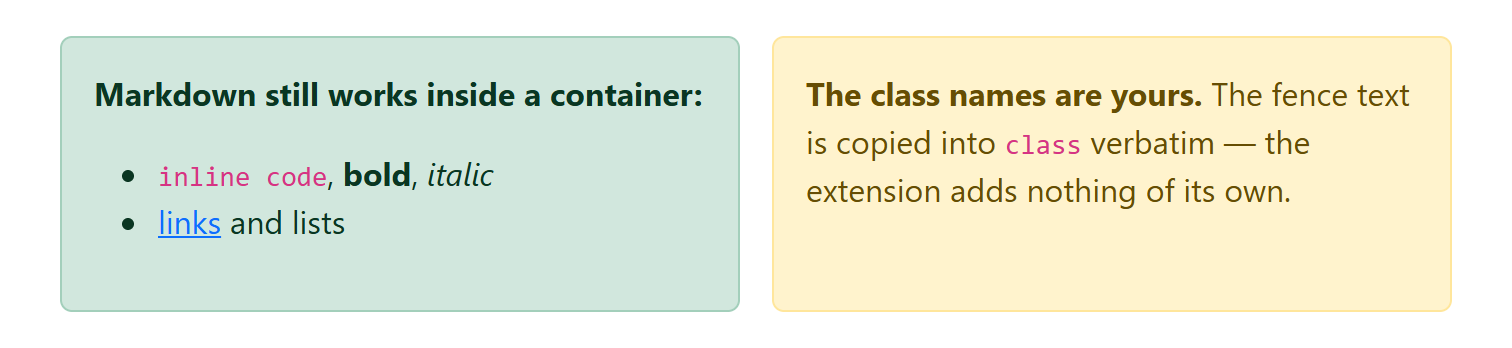
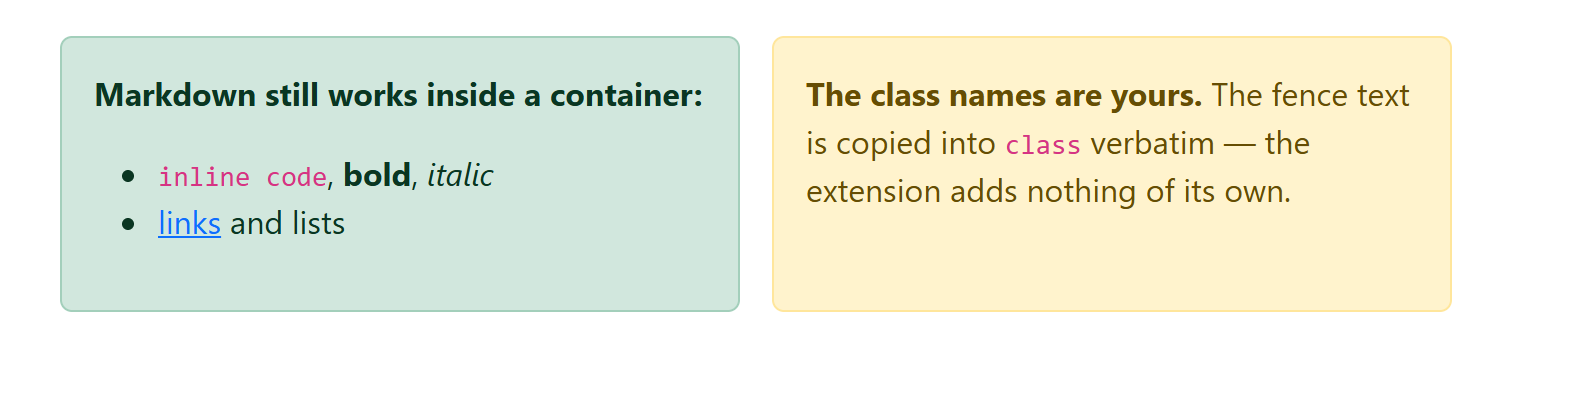
docs: generate every screenshot from the README, drop the 2022 GIFs
Each image in images/ dated from 2022 and had drifted from what the
extension renders. Rather than redraw them, scripts/screenshots.mjs
(npm run screenshots) renders each one from a fenced ```markdown block
in README.md itself, through the extension's own compiled plugins and
stylesheets in renderPage's order. Edit the code block and the picture
follows, so the two cannot disagree again.

The generator mirrors the plugin registration order of plugins.ts:
markdown-it tries inline rules in registration order and several of
these compete for the same delimiters.

New capability shots: sidenotes, marginal notes and both sidebars in the
margin layout - the headline feature, which had no image at all - plus a
combined inline-syntax shot and a footnote shot. admonition-demo1/2 and
container-demo are regenerated.

The three GIFs and command-demo.png are removed. They need a real VS
Code window to capture, and had aged badly: the palette shot listed
seven commands against today's twenty-seven while duplicating the
keyboard-shortcut table that already exists. Table editing, Paste as
Table and Export & Copy are documented with before/after Markdown and
command tables instead - produced by running the extension's own table
parser, stringifier and CSV converter, so the output is real. The
walkthrough's editing step moves to media/walkthrough/editing.md like
its five siblings, and command-demo2.png was referenced by nothing.
[…]

diff --git a/README.md b/README.md
@@ -249,27 +249,96 @@ Default Keyboard Shortcut bindings are removed due to conflict issues on platfor
 
 ### Table Editing
 
-![tableEdit](./images/tableEdit.gif)
+**Format Table** rewrites a table so the pipes line up, padding every cell to the
+width of its column and preserving each column's alignment marker:
 
-![moveCols](./images/moveCols.gif)
+```markdown
+| Command | Shortcut | Notes |
+|---|:--:|--:|
+| Format Table | Ctrl+Shift+T | tidies alignment |
+| Move Columns | Ctrl+Shift+Left | keeps the header |
+```
 
-> Move columns key bindings has been changed to `ctrl+shift+t ctrl+shift+left/right`, due to [#57](https://github.com/JackDMF/vscode-markdown-extended/issues/57), [#68](https://github.com/JackDMF/vscode-markdown-extended/issues/68)
+becomes
+
+```markdown
+| Command      |    Shortcut     |            Notes |
+| ------------ | :-------------: | ---------------: |
+| Format Table |  Ctrl+Shift+T   | tidies alignment |
+| Move Columns | Ctrl+Shift+Left | keeps the header |
+```
+
+The remaining table commands act on the table under the cursor, and reformat it
+afterwards so it stays aligned:
+
+| Command                     | Effect                                              |
+| --------------------------- | --------------------------------------------------- |
+| Add Columns to Left / Right | Inserts a column beside the one holding the cursor  |
+| Add Rows Above / Below      | Inserts a row next to the current one               |
+| Move Columns Left / Right   | Swaps a whole column, header and alignment included |
+| Delete Rows / Delete Columns | Removes the current row or column                  |
+
+Every one is on the command palette. No keyboard shortcuts are bound by default -
+see [Editing Helpers and Keys](#editing-helpers-and-keys) for why, and for the
+bindings to copy if you want them back.
+
+> For `Move Rows Up / Down`, use VS Code's built-in `Move Line Up / Down`
+> (`alt+up` / `alt+down`).
 
 ### Paste as Markdown Table
 
-Copy a table from Excel, Web and other applications which support the format of Comma-Separated Values (CSV), then run the command `Paste as Markdown Table`, you will get the markdown table.
+Copy a table from Excel, a web page, or anything else that puts Comma-Separated
+Values on the clipboard, then run **Paste as Table**. This clipboard content:
 
-![pasteTable](./images/pasteTable.gif)
+```text
+Command,Shortcut,Notes
+Format Table,Ctrl+Shift+T,tidies alignment
+Move Columns,Ctrl+Shift+Left,keeps the header
+```
+
+is inserted as:
+
+```markdown
+| Command      | Shortcut        | Notes            |
+| ------------ | --------------- | ---------------- |
+| Format Table | Ctrl+Shift+T    | tidies alignment |
+| Move Columns | Ctrl+Shift+Left | keeps the header |
+```
+
+The first row becomes the header, and the table is aligned on insert.
 
 ### Export & Copy
 
-![command](./images/command-demo.png)
+| Command                            | What it does                                                     |
+| ---------------------------------- | ---------------------------------------------------------------- |
+| Export to File                     | Exports the current document to HTML, PDF, PNG or JPG            |
+| Export Markdown to File            | Exports every Markdown file in the workspace                     |
+| Copy HTML                          | Puts the rendered HTML on the clipboard                          |
+| Copy HTML & Styles                 | The same, with the stylesheets inlined so it survives pasting    |
+| Install Chromium Browser for Export | Downloads the Chromium that PDF and image export need            |
+
+Search "Markdown" in the command palette (`Ctrl+Shift+P`) to reach them; export is
+also on the editor title menu and the explorer context menu.
 
 ## Syntax Documentation
 
 ### Sidenotes and Annotations
 
 This extension provides powerful annotation features with full markdown support:
+
+```markdown
+Sidenotes sit in the margin instead of breaking the line.++[1]|Notes carry
+**full markdown**: links, `code` and emphasis.++ On a narrow page they fall
+back to a readable block, so nothing is pushed off the edge.
+
+Marginal notes behave the same way but render bold.!![*]|Good for short asides.!!
+
+$A left sidebar, for context that runs alongside the text.$
+
+@A right sidebar, with `code` and [links](https://example.com).@
+```
+
+![sidenote-demo](./images/sidenote-demo.png)
 
 #### Sidenotes
 
@@ -350,6 +419,27 @@ ends up with a horizontal scrollbar. If you widen `--md-note-width`, raise the
 For advanced features (CSS counters, color cycling, `:has()` selectors), build on
 these classes and properties — see `styles/markdown-extended.css`.
 
+### Extended Inline Syntax
+
+Everything the extension adds to a line of text, in one place. Each mark has its
+own section further down; this is what they look like together.
+
+```markdown
+*[HTML]: HyperText Markup Language
+
+Highlight with ==mark==, strike through ~~del~~, mix *italic* and **bold**.
+Water is H~2~O and the answer is 2^10^ = 1024. Press [[Ctrl+S]] to save.
+An HTML abbreviation shows its meaning on hover, and emoji work too :rocket:
+
+- [x] checkbox lists render as real checkboxes
+- [ ] unchecked items too
+
+Term
+:   A definition list entry, for glossaries and option tables.
+```
+
+![inline-syntax-demo](./images/inline-syntax-demo.png)
+
 ### Admonition
 
 > Inspired by [MkDocs](https://squidfunk.github.io/mkdocs-material/extensions/admonition/)
@@ -397,9 +487,11 @@ Here is a footnote reference,[^1] and another.[^longnote]
 
 [^1]: Here is the footnote.
 [^longnote]: Here's one with multiple blocks.
+
+    Indented paragraphs belong to the same footnote.
 ```
 
-Example output: Here is a footnote reference with superscript links.
+![footnote-demo](./images/footnote-demo.png)
 
 ### markdown-it-abbr
 

diff --git a/CHANGELOG.md b/CHANGELOG.md
@@ -17,9 +17,14 @@
 
 ### 📖 Documentation
 
+- **Every documentation image is now generated, not drawn.** `scripts/screenshots.mjs` (`npm run screenshots`) renders each one from a fenced ```markdown block in README.md itself, through the extension's own compiled plugins and stylesheets in the order `renderPage` emits them. The README and its illustrations can no longer disagree. The generator mirrors the plugin registration order of `src/plugin/plugins.ts`, because markdown-it tries inline rules in registration order.
+- **New capability screenshots.** Sidenotes, marginal notes and both sidebars in the margin layout - the extension's headline feature, which had no image at all - plus a combined "Extended Inline Syntax" shot (mark, strikethrough, sub/sup, kbd, abbreviation, emoji, task lists, definition lists) and a footnote shot. `admonition-demo1/2` and `container-demo` are regenerated from current rendering.
+- **The three GIFs and the command-palette screenshot are gone.** All dated from 2022 and could not be regenerated without driving a real VS Code window. Table editing, Paste as Table and Export & Copy are now documented with before/after Markdown and command tables - copyable, searchable, and correct by construction: the before/after output was produced by running the extension's own table parser, stringifier and CSV converter. The command-palette shot listed seven commands against today's twenty-seven, and duplicated the keyboard-shortcut table that already existed.
+- The walkthrough's editing step moves from `pasteTable.gif` to `media/walkthrough/editing.md`, matching its five siblings, and its cheat-sheet now lists the extension's own `[[Ctrl+S]]` keyboard syntax instead of raw `<kbd>` HTML.
+- Corrected two errors in the new prose: `++ins++` was written up as underline syntax, but `++...++` belongs to sidenotes alone and `markdown-it-ib` provides `_underline_`; and the footnote example promised "multiple blocks" while showing one line.
 - README documents the note layout model, the breakpoint and every custom property.
 - **The `markdown-it-container` example could not produce its own screenshot.** It used Bootstrap 3 grid classes (`col-xs-6`) while linking Bootstrap 4.0.0, which dropped that name — so the two panels rendered full-width instead of side by side. The section is rewritten around a working Bootstrap 5 example that also demonstrates what the plugin is actually for: the fence's info string becomes the `class` attribute verbatim, markdown still renders inside, and putting the grid class and the panel class on separate nested fences is what gives the panels a gutter (a single `col-md-6 alert alert-success` makes them touch, which is what the old screenshot showed). A Bulma version and the nesting rule are documented alongside it, as is the fact that a script-only CDN such as Tailwind's cannot be used, since `markdown.styles` takes CSS.
-- **`images/container-demo.png` regenerated** (535×58 from 2022 → 1512×316 @2x). It is rendered from the README's own code block through the real container render rule and the linked Bootstrap 5 stylesheet, so the picture and the documented source cannot drift apart.
+- **`images/container-demo.png` regenerated** (535×58 from 2022 → 1512×348 @2x). It is rendered from the README's own code block through the real container render rule and the linked Bootstrap 5 stylesheet, so the picture and the documented source cannot drift apart.
 - The Getting Started walkthrough said `markdown.styles` is "embedded into every export". That holds for a local file, but a URL is emitted as a `<link rel="stylesheet">`, so such an export needs the network at export time and stays tied to that URL. Both the walkthrough and the README now say so, along with the fact that setting `markdown.styles` at all switches off `markdownExtended.export.defaultStyles`.
 
 ## v3.1.1 — Multiline Bold & Italic

diff --git a/media/walkthrough/editing.md b/media/walkthrough/editing.md
@@ -1,0 +1,31 @@
+## Tables and formatting
+
+**Paste as Table** — copy rows from Excel, Google Sheets or any web table, then
+run it. Comma-separated clipboard text goes in:
+
+```
+Command,Shortcut,Notes
+Format Table,Ctrl+Shift+T,tidies alignment
+```
+
+and an aligned Markdown table comes out, first row as the header:
+
+```
+| Command      | Shortcut     | Notes            |
+| ------------ | ------------ | ---------------- |
+| Format Table | Ctrl+Shift+T | tidies alignment |
+```
+
+**Format Table** re-aligns the table under the cursor, padding each cell to its
+column width and keeping every alignment marker (`:--`, `:--:`, `--:`).
+
+**Add / Delete / Move Columns and Rows** act on the table under the cursor and
+re-align it afterwards, so it never drifts out of shape.
+
+**Toggle formatting** — bold, italics, underline, mark, strikethrough, inline
+code, code block, block quote, superscript, subscript, and ordered or unordered
+lists, all from the command palette.
+
+No keyboard shortcuts are bound by default: the old defaults clashed with other
+extensions on some platforms. Search "Markdown" in the command palette, use the
+bundled snippets, or bind your own in **Preferences: Open Keyboard Shortcuts**.

diff --git a/media/walkthrough/syntax.md b/media/walkthrough/syntax.md
@@ -5,7 +5,7 @@
 | `==highlight==` | highlighted / marked text |
 | `_underline_` | underlined text |
 | `H~2~O` · `x^2^` | subscript / superscript |
-| `<kbd>Ctrl</kbd>` | a keyboard key |
+| `[[Ctrl+S]]` | a keyboard key |
 | `[[toc]]` | a table of contents |
 | `[^1]` … `[^1]: note` | a footnote |
 | `*[HTML]: HyperText…` | an abbreviation tooltip |
